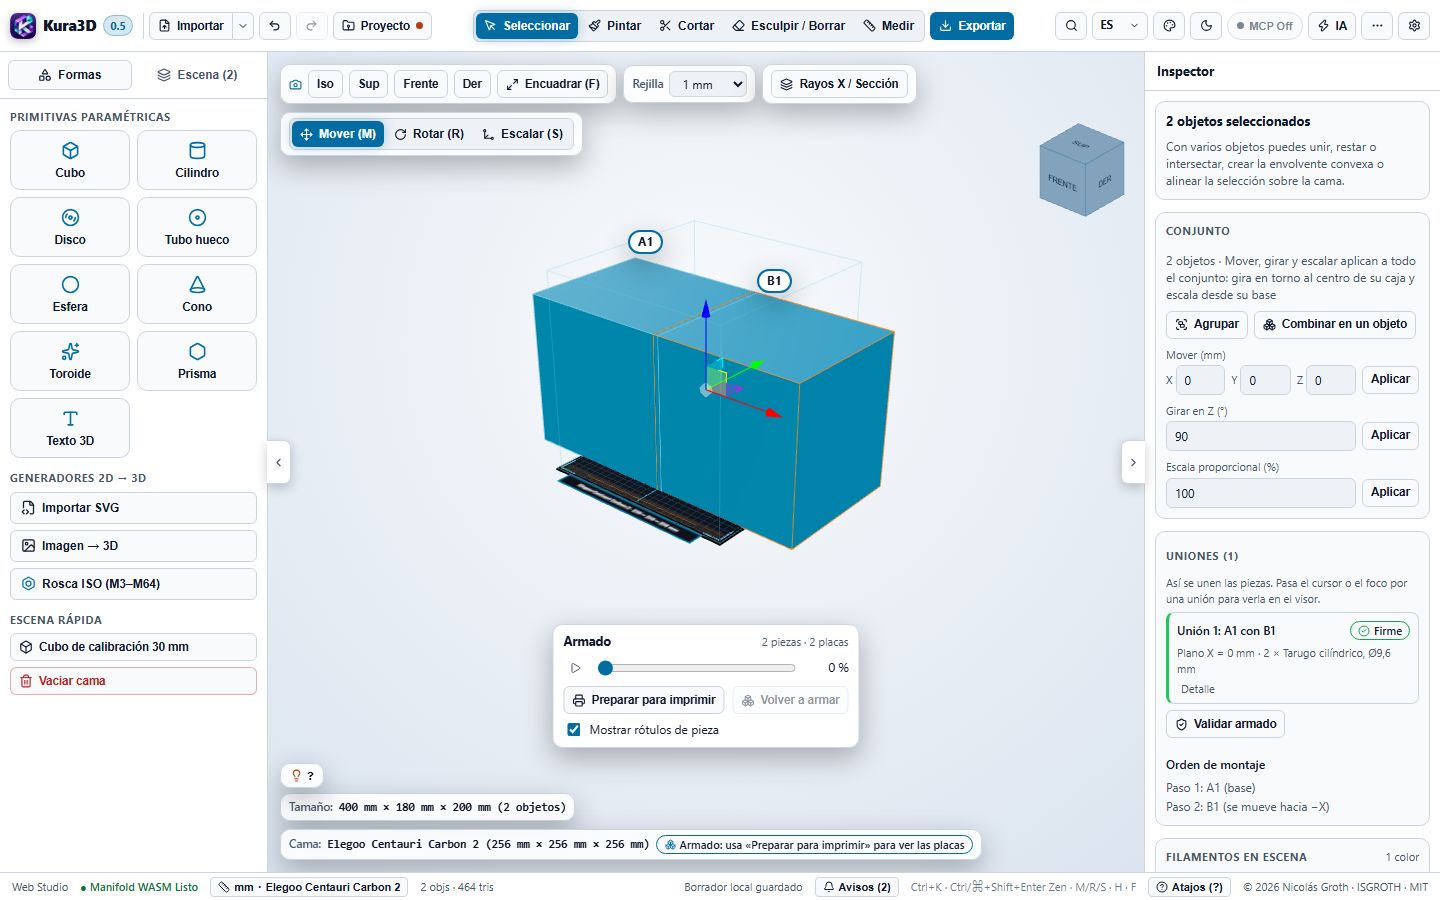
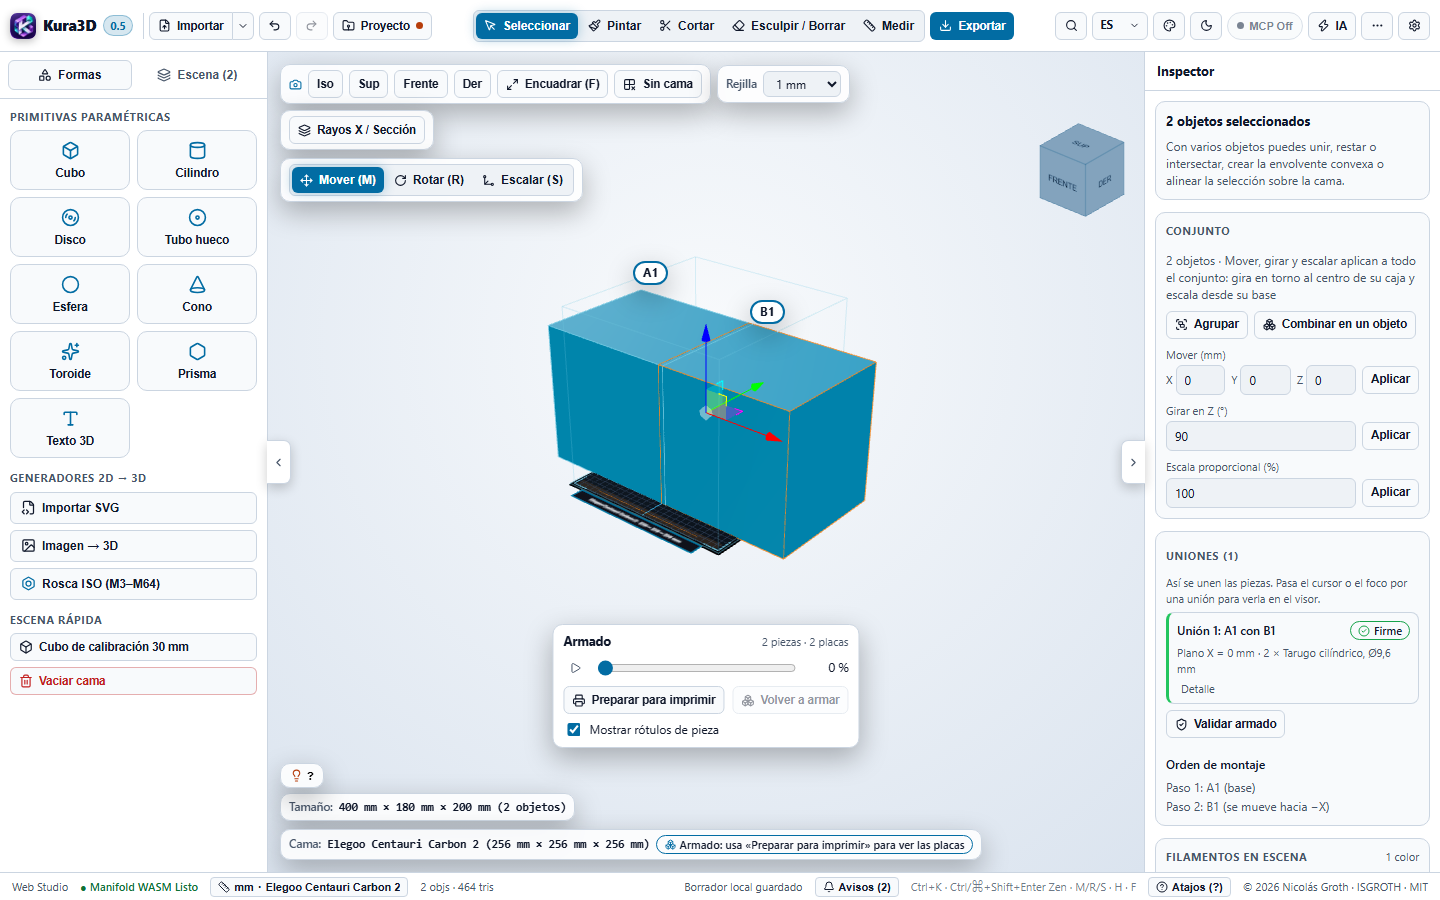
docs(guia): capturas regeneradas (chip Cama oculta, avisos) y texto de Sin cama

diff --git a/docs/guia/primeros-pasos.md b/docs/guia/primeros-pasos.md
@@ -45,7 +45,7 @@ En la barra compacta cada icono muestra su nombre al pasar el cursor. La pestañ
 
 ## Vista sin cama
 
-Para ver cómo encajan las piezas entre sí sin la cama de por medio, pulsa **Sin cama** en la barra de vistas del visor (o la tecla **B**, o clic derecho en el fondo del visor → *Vista sin cama*). Se ocultan la rejilla, la cama, el rótulo de la impresora, el volumen de impresión y las sombras; las piezas quedan flotando y puedes girar la vista por debajo para mirarlas desde abajo. Es solo una forma de ver: no cambia tus piezas ni lo que se exporta, y no se guarda en el proyecto. Si algo queda fuera del volumen de impresión, el aviso sigue en la línea inferior del visor. Vuelve a pulsar **Sin cama** (o **B**) para ver la cama otra vez.
+Para ver cómo encajan las piezas entre sí sin la cama de por medio, pulsa **Sin cama** en la barra de vistas del visor (o la tecla **B**, o clic derecho en el fondo del visor → *Vista sin cama*). Se ocultan la rejilla, la cama, el rótulo de la impresora, el volumen de impresión y las sombras; las piezas quedan flotando y puedes girar la vista por debajo para mirarlas desde abajo. Es solo una forma de ver: no cambia tus piezas ni lo que se exporta, y no se guarda en el proyecto. En la línea inferior el chip de la cama pasa a **Cama oculta** (púlsalo para volver a mostrarla); mientras está oculta no se avisa de piezas fuera del volumen de impresión, pero el aviso reaparece apenas vuelve la cama. Vuelve a pulsar **Sin cama** (o **B**) para ver la cama otra vez.
 
 ![Vista sin cama: las tres piezas flotando sobre un fondo neutro](img/primeros-pasos-06-sin-cama.png)
 
